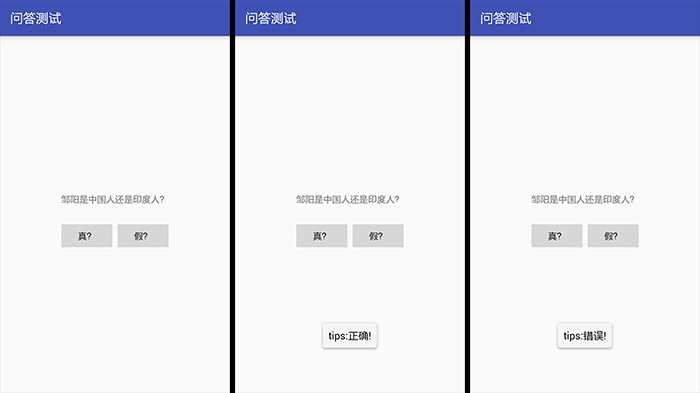
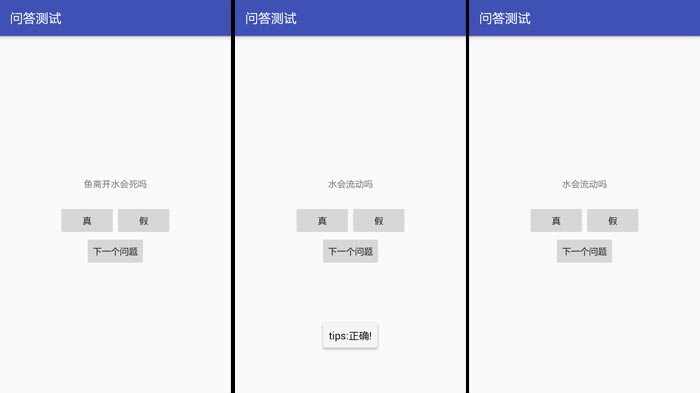
add files

diff --git a/app/src/main/java/zy/quiz/MainActivity.java b/app/src/main/java/zy/quiz/MainActivity.java
@@ -4,17 +4,36 @@ import android.support.v7.app.AppCompatActivity;
 import android.os.Bundle;
 import android.view.View;
 import android.widget.Button;
+import android.widget.TextView;
 import android.widget.Toast;
 
 public class MainActivity extends AppCompatActivity {
 
     private Button mTrueButton;
     private Button mFalseButton;
+    private Button mNextButton;
+    private TextView mQuestionTextView;
+    private int mCurrentIndex = 1;
+
+    private Question[] mQuestionBank = new Question[] {
+            new Question(R.string.question_oceans, true),
+            new Question(R.string.question_mideast, false),
+            new Question(R.string.question_africa, false),
+            new Question(R.string.question_americas, true),
+            new Question(R.string.question_asia, true),
+    };
+
+    private void updateQuestion() {
+        int question = mQuestionBank[mCurrentIndex].getTextResId();
+        mQuestionTextView.setText(question);
+    }
 
     @Override
     protected void onCreate(Bundle savedInstanceState) {
         super.onCreate(savedInstanceState);
         setContentView(R.layout.activity_main);
+
+        mQuestionTextView = (TextView) findViewById(R.id.question_text_view);
 
         Button mTrueButton = (Button) findViewById(R.id.true_button);
         Button mFalseButton = (Button) findViewById(R.id.false_button);
@@ -22,22 +41,48 @@ public class MainActivity extends AppCompatActivity {
         mTrueButton.setOnClickListener(new View.OnClickListener() {
             @Override
             public void onClick(View v) {
-                Toast.makeText(MainActivity.this,
-                        R.string.incorrect_toast,
-                        Toast.LENGTH_SHORT).show();
+//                Toast.makeText(MainActivity.this,
+//                        R.string.incorrect_toast,
+//                        Toast.LENGTH_SHORT).show();
+                checkAnswer(true);
             }
         });
 
         mFalseButton.setOnClickListener(new View.OnClickListener() {
             @Override
             public void onClick(View v) {
-                Toast.makeText(MainActivity.this,
-                        R.string.correct_toast,
-                        Toast.LENGTH_SHORT).show();
+//                Toast.makeText(MainActivity.this,
+//                        R.string.correct_toast,
+//                        Toast.LENGTH_SHORT).show();
+                checkAnswer(false);
             }
         });
 
+        mNextButton = (Button) findViewById(R.id.next_button);
+        mNextButton.setOnClickListener(new View.OnClickListener() {
+            @Override
+            public void onClick(View v) {
+                mCurrentIndex = (mCurrentIndex + 1) % mQuestionBank.length;
+//                Toast.makeText(MainActivity.this,
+//                        Integer.toString(mCurrentIndex),
+//                        Toast.LENGTH_SHORT).show();
+                updateQuestion();
+            }
+        });
 
-
+        updateQuestion();
     }
+
+    private void checkAnswer(boolean userPressedTrue) {
+        boolean answerIsTrue = mQuestionBank[mCurrentIndex].isAnswerTrue();
+        int messageResId = 0;
+        if (userPressedTrue == answerIsTrue) {
+            messageResId = R.string.correct_toast;
+        } else {
+            messageResId = R.string.incorrect_toast;
+        }
+        Toast.makeText(this, messageResId, Toast.LENGTH_SHORT)
+                .show();
+    }
+
 }

diff --git a/app/src/main/java/zy/quiz/Question.java b/app/src/main/java/zy/quiz/Question.java
@@ -1,0 +1,32 @@
+package zy.quiz;
+
+public class Question {
+
+    private int mTextResId;
+    private boolean mAnswerTrue;
+
+    public int getTextResId() {
+        return mTextResId;
+    }
+
+    public boolean isAnswerTrue() {
+        return mAnswerTrue;
+    }
+
+    public void setTextResId(int textResId) {
+        mTextResId = textResId;
+    }
+
+    public void setAnswerTrue(boolean answerTrue) {
+        mAnswerTrue = answerTrue;
+    }
+
+    public Question(int textResId, boolean answerTrue) {
+
+
+        mTextResId = textResId;
+        mAnswerTrue = answerTrue;
+    }
+
+
+}
